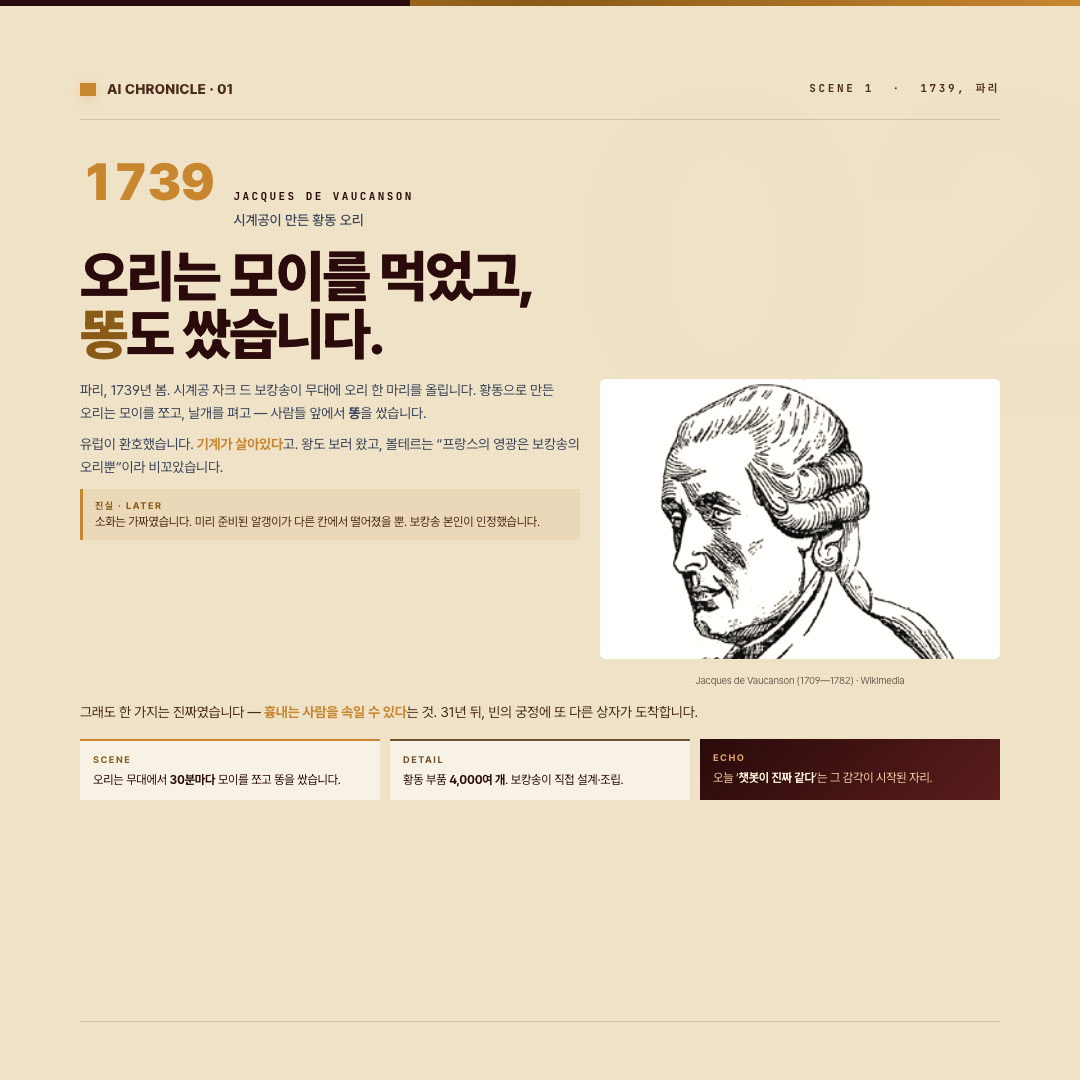
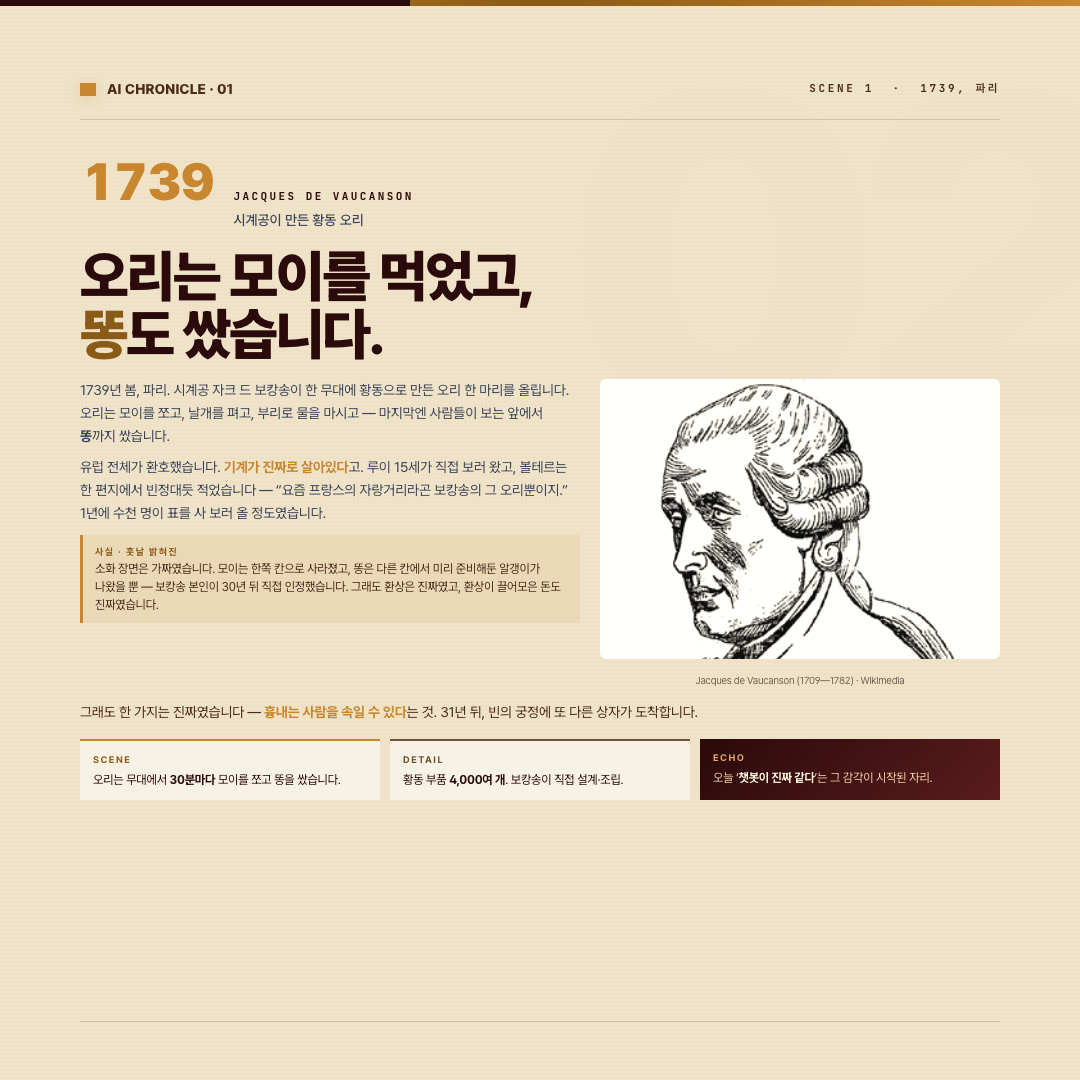
fix(reader): 다음 호 버튼 visible 강제 override + 01·02호 카드 본문 디테일 보강
- magazine.css의 .mag-next opacity:0/transform이 inline 룰을 이김 → !important로 강제
- ::after 펄스도 제거(가죽톤과 충돌)
- 01 Vaucanson · 06 Ada Lovelace 본문 분량/일화 보강 (루이15세, 볼테르 인용, 124쪽 주석 등)

Changed region(s): [[0.0611, 0.3361, 0.5194, 0.5806], [0.0611, 0.3361, 0.1528, 0.3667]]

diff --git a/chronicle-1-cards-cogwheel/02-vaucanson.html b/chronicle-1-cards-cogwheel/02-vaucanson.html
@@ -19,11 +19,11 @@
 
     <div class="split" style="grid-template-columns:1.25fr 1fr; gap:20px; margin-top:14px;">
       <div class="left">
-        <p class="body-sm" style="font-size:14px; line-height:1.65;">파리, 1739년 봄. 시계공 자크 드 보캉송이 무대에 오리 한 마리를 올립니다. 황동으로 만든 오리는 모이를 쪼고, 날개를 펴고 — 사람들 앞에서 <b>똥</b>을 쌌습니다.</p>
-        <p class="body-sm" style="font-size:14px; line-height:1.65; margin-top:8px;">유럽이 환호했습니다. <em>기계가 살아있다</em>고. 왕도 보러 왔고, 볼테르는 “프랑스의 영광은 보캉송의 오리뿐”이라 비꼬았습니다.</p>
+        <p class="body-sm" style="font-size:14px; line-height:1.65;">1739년 봄, 파리. 시계공 자크 드 보캉송이 한 무대에 황동으로 만든 오리 한 마리를 올립니다. 오리는 모이를 쪼고, 날개를 펴고, 부리로 물을 마시고 — 마지막엔 사람들이 보는 앞에서 <b>똥</b>까지 쌌습니다.</p>
+        <p class="body-sm" style="font-size:14px; line-height:1.65; margin-top:8px;">유럽 전체가 환호했습니다. <em>기계가 진짜로 살아있다</em>고. 루이 15세가 직접 보러 왔고, 볼테르는 한 편지에서 빈정대듯 적었습니다 — “요즘 프랑스의 자랑거리라곤 보캉송의 그 오리뿐이지.” 1년에 수천 명이 표를 사 보러 올 정도였습니다.</p>
         <div style="margin-top:10px; padding:9px 12px; background:rgba(200,134,47,0.10); border-left:3px solid var(--brand);">
-          <div style="font-size:9.5px; letter-spacing:1.5px; color:var(--brand-deep); font-weight:700;">진실 · LATER</div>
-          <div style="font-size:12px; line-height:1.5; color:var(--ink-soft);">소화는 가짜였습니다. 미리 준비된 알갱이가 다른 칸에서 떨어졌을 뿐. 보캉송 본인이 인정했습니다.</div>
+          <div style="font-size:9.5px; letter-spacing:1.5px; color:var(--brand-deep); font-weight:700;">사실 · 훗날 밝혀진</div>
+          <div style="font-size:12px; line-height:1.5; color:var(--ink-soft);">소화 장면은 가짜였습니다. 모이는 한쪽 칸으로 사라졌고, 똥은 다른 칸에서 미리 준비해둔 알갱이가 나왔을 뿐 — 보캉송 본인이 30년 뒤 직접 인정했습니다. 그래도 환상은 진짜였고, 환상이 끌어모은 돈도 진짜였습니다.</div>
         </div>
       </div>
       <div class="right">

diff --git a/chronicle-1-cards-cogwheel/06-ada.html b/chronicle-1-cards-cogwheel/06-ada.html
@@ -23,8 +23,8 @@
         <p style="font-size:10px; margin-top:4px; opacity:0.6; text-align:center;">Ada Lovelace (1815—1852)</p>
       </div>
       <div class="right">
-        <p class="body-sm" style="font-size:14px; line-height:1.65;">시인 바이런의 딸. 27살의 에이다는 배비지의 해석기관 설명서를 번역하다가, <b>주석</b>을 본문보다 길게 붙였습니다. 그 주석 안에 — 베르누이 수를 계산하는 단계별 절차가 적혀 있었습니다.</p>
-        <p class="body-sm" style="font-size:14px; line-height:1.65; margin-top:8px;">사람들은 후일 이를 <em>역사상 첫 컴퓨터 프로그램</em>이라 부릅니다. 기계는 만들어지지도 않았는데, 프로그램이 먼저 쓰인 셈입니다.</p>
+        <p class="body-sm" style="font-size:14px; line-height:1.65;">시인 바이런의 외동딸. 어머니가 ‘아빠처럼 시인이 되지 마라’며 일부러 어릴 때부터 수학을 가르친 그 에이다입니다. 27살의 그녀는 배비지가 이탈리아 학자에게 받은 <em>해석기관 설명서</em>를 영어로 번역하다, 본문 65쪽에 주석 124쪽을 덧붙입니다 — <b>주석이 본문의 두 배 가까이</b> 길어진 셈입니다.</p>
+        <p class="body-sm" style="font-size:14px; line-height:1.65; margin-top:8px;">그 주석 가운데 ‘<b>Note G</b>’에 — 베르누이 수를 계산하는 24단계 절차가 표로 정리돼 있었습니다. 훗날 사람들은 이걸 <em>역사상 첫 컴퓨터 프로그램</em>이라 부릅니다. 기계는 한 부품도 조립되지 않은 상태였는데, 프로그램이 먼저 쓰인 셈이었습니다.</p>
         <div class="quote" style="margin-top:12px; font-size:16.5px; line-height:1.55; padding:12px 18px;">
           “해석기관은 스스로 <b>새것을 만들지</b> 못합니다. 우리가 시킬 줄 아는 것만 그대로 해낼 뿐입니다.”
           <div style="font-size:11px; margin-top:6px; opacity:0.6; font-style:normal;">— Ada Lovelace, Note G, 1843</div>

diff --git a/chronicle/cogwheel.html b/chronicle/cogwheel.html
@@ -48,11 +48,14 @@
   }
   /* mag-next — 다음 호 카드 */
   body.chr-reader .mag-next {
-    max-width: 760px; margin: 60px auto 80px; padding: 24px;
-    background: rgba(255,255,255,0.5); border: 1px solid var(--line);
-    border-radius: 6px; display: grid; grid-template-columns: 180px 1fr; gap: 24px;
-    align-items: center;
+    opacity: 1 !important; transform: none !important;
+    max-width: 760px; margin: 60px auto 80px; padding: 24px !important;
+    background: rgba(255,255,255,0.5) !important; border: 1px solid var(--line);
+    border-radius: 6px; display: grid !important; grid-template-columns: 180px 1fr; gap: 24px;
+    align-items: center; color: var(--navy) !important;
+    flex-direction: row !important; text-align: left !important;
   }
+  body.chr-reader .mag-next::after { display: none !important; }
   body.chr-reader .mag-next.in-view { opacity: 1; transform: none; }
   body.chr-reader .mag-next .next-cover { width: 100%; aspect-ratio: 1; object-fit: cover; border-radius: 4px; box-shadow: 0 8px 20px rgba(42,10,10,0.2); }
   body.chr-reader .mag-next .next-kicker { font-family: 'JetBrains Mono', monospace; font-size: 10.5px; letter-spacing: 0.26em; color: var(--brand-deep); font-weight: 800; text-transform: uppercase; }

diff --git a/chronicle/dartmouth.html b/chronicle/dartmouth.html
@@ -48,11 +48,14 @@
   }
   /* mag-next — 다음 호 카드 */
   body.chr-reader .mag-next {
-    max-width: 760px; margin: 60px auto 80px; padding: 24px;
-    background: rgba(255,255,255,0.5); border: 1px solid var(--line);
-    border-radius: 6px; display: grid; grid-template-columns: 180px 1fr; gap: 24px;
-    align-items: center;
+    opacity: 1 !important; transform: none !important;
+    max-width: 760px; margin: 60px auto 80px; padding: 24px !important;
+    background: rgba(255,255,255,0.5) !important; border: 1px solid var(--line);
+    border-radius: 6px; display: grid !important; grid-template-columns: 180px 1fr; gap: 24px;
+    align-items: center; color: var(--navy) !important;
+    flex-direction: row !important; text-align: left !important;
   }
+  body.chr-reader .mag-next::after { display: none !important; }
   body.chr-reader .mag-next.in-view { opacity: 1; transform: none; }
   body.chr-reader .mag-next .next-cover { width: 100%; aspect-ratio: 1; object-fit: cover; border-radius: 4px; box-shadow: 0 8px 20px rgba(42,10,10,0.2); }
   body.chr-reader .mag-next .next-kicker { font-family: 'JetBrains Mono', monospace; font-size: 10.5px; letter-spacing: 0.26em; color: var(--brand-deep); font-weight: 800; text-transform: uppercase; }

diff --git a/chronicle/perceptron.html b/chronicle/perceptron.html
@@ -48,11 +48,14 @@
   }
   /* mag-next — 다음 호 카드 */
   body.chr-reader .mag-next {
-    max-width: 760px; margin: 60px auto 80px; padding: 24px;
-    background: rgba(255,255,255,0.5); border: 1px solid var(--line);
-    border-radius: 6px; display: grid; grid-template-columns: 180px 1fr; gap: 24px;
-    align-items: center;
+    opacity: 1 !important; transform: none !important;
+    max-width: 760px; margin: 60px auto 80px; padding: 24px !important;
+    background: rgba(255,255,255,0.5) !important; border: 1px solid var(--line);
+    border-radius: 6px; display: grid !important; grid-template-columns: 180px 1fr; gap: 24px;
+    align-items: center; color: var(--navy) !important;
+    flex-direction: row !important; text-align: left !important;
   }
+  body.chr-reader .mag-next::after { display: none !important; }
   body.chr-reader .mag-next.in-view { opacity: 1; transform: none; }
   body.chr-reader .mag-next .next-cover { width: 100%; aspect-ratio: 1; object-fit: cover; border-radius: 4px; box-shadow: 0 8px 20px rgba(42,10,10,0.2); }
   body.chr-reader .mag-next .next-kicker { font-family: 'JetBrains Mono', monospace; font-size: 10.5px; letter-spacing: 0.26em; color: var(--brand-deep); font-weight: 800; text-transform: uppercase; }

diff --git a/chronicle/tape.html b/chronicle/tape.html
@@ -48,11 +48,14 @@
   }
   /* mag-next — 다음 호 카드 */
   body.chr-reader .mag-next {
-    max-width: 760px; margin: 60px auto 80px; padding: 24px;
-    background: rgba(255,255,255,0.5); border: 1px solid var(--line);
-    border-radius: 6px; display: grid; grid-template-columns: 180px 1fr; gap: 24px;
-    align-items: center;
+    opacity: 1 !important; transform: none !important;
+    max-width: 760px; margin: 60px auto 80px; padding: 24px !important;
+    background: rgba(255,255,255,0.5) !important; border: 1px solid var(--line);
+    border-radius: 6px; display: grid !important; grid-template-columns: 180px 1fr; gap: 24px;
+    align-items: center; color: var(--navy) !important;
+    flex-direction: row !important; text-align: left !important;
   }
+  body.chr-reader .mag-next::after { display: none !important; }
   body.chr-reader .mag-next.in-view { opacity: 1; transform: none; }
   body.chr-reader .mag-next .next-cover { width: 100%; aspect-ratio: 1; object-fit: cover; border-radius: 4px; box-shadow: 0 8px 20px rgba(42,10,10,0.2); }
   body.chr-reader .mag-next .next-kicker { font-family: 'JetBrains Mono', monospace; font-size: 10.5px; letter-spacing: 0.26em; color: var(--brand-deep); font-weight: 800; text-transform: uppercase; }
